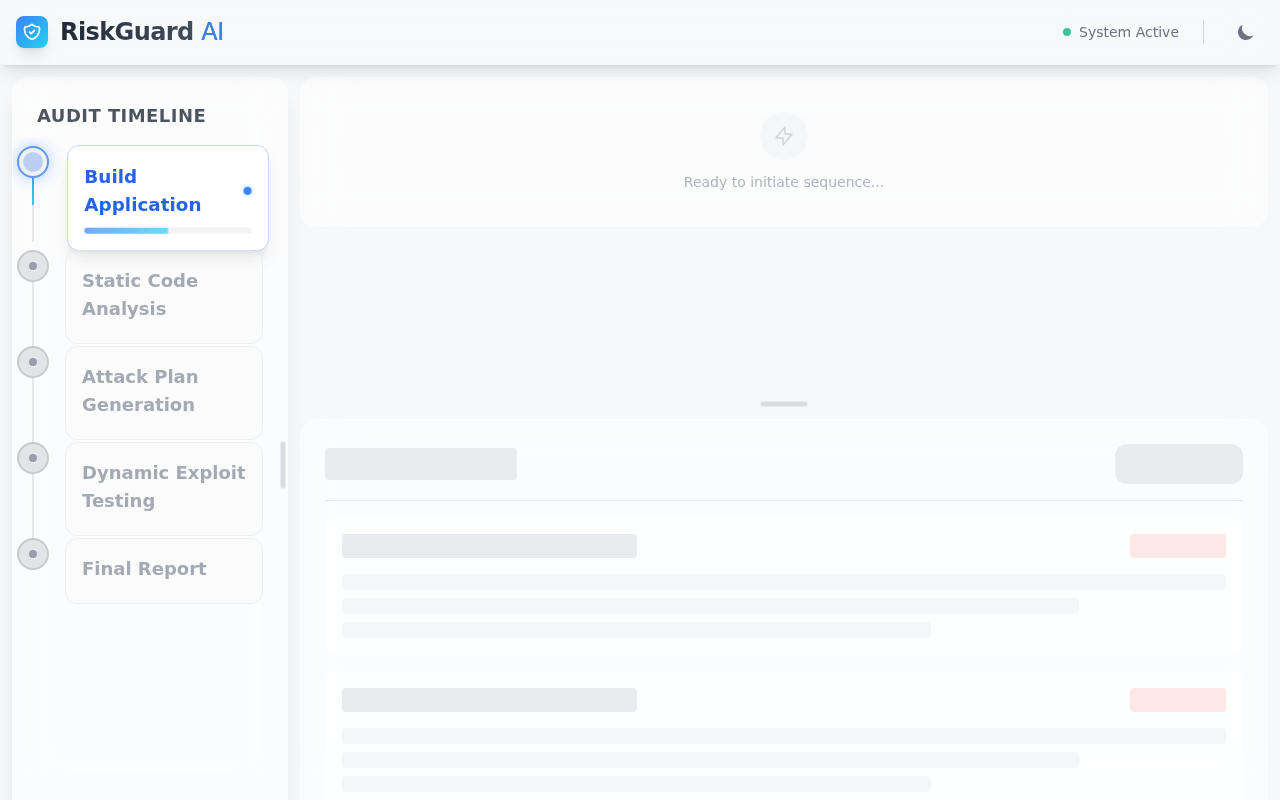
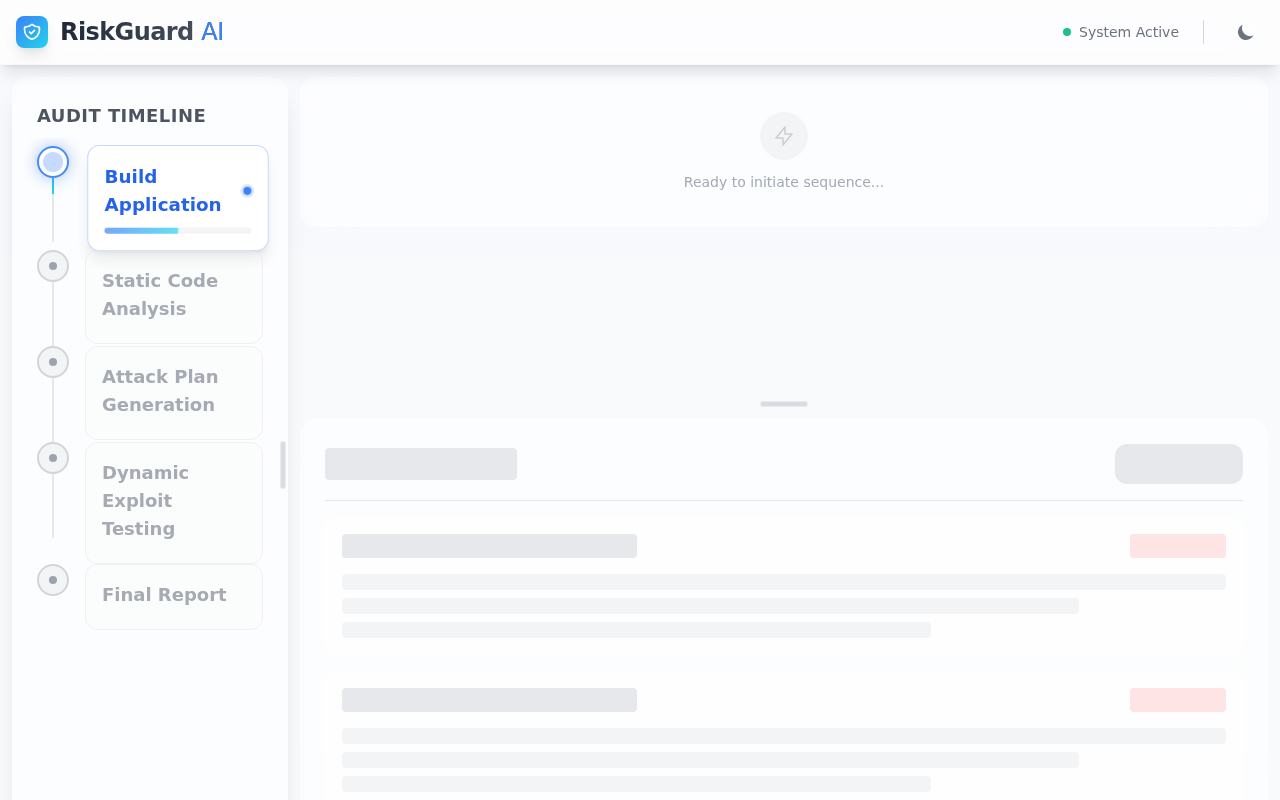
Refactor DashboardLayout resizing, visibility, and margins
- Implemented custom JS-based resizing for Sidebar and History pane to fix non-interactive resize handles.
- Updated ScanProgress to always show the audit timeline steps (upcoming/active/complete) instead of a skeleton loader.
- Removed `pl-1` from ScanProgress to fix left margin alignment issue.
- Added padding/margins to DashboardLayout panes to create a "floating card" effect.
- Enforced strict overflow handling (overflow-hidden, min-h-0) to prevent content from exceeding the viewport.
- Removed double-wrapping of styles for the main content area.

diff --git a/pages/home/components/ScanProgress.tsx b/pages/home/components/ScanProgress.tsx
@@ -156,7 +156,7 @@ const ScanProgress: React.FC<ScanProgressProps> = ({ graphState }) => {
                     Audit Timeline
                 </h2>
             </div>
-            <div className="flex-1 overflow-y-auto p-6 pt-2 space-y-0 pl-1 scrollbar-thin scrollbar-thumb-gray-300 dark:scrollbar-thumb-navy-600">
+            <div className="flex-1 overflow-y-auto p-6 pt-2 space-y-0 scrollbar-thin scrollbar-thumb-gray-300 dark:scrollbar-thumb-navy-600">
                 {steps.map((step, index) => (
                     <Step key={step.key} step={step} isLast={index === steps.length - 1} />
                 ))}
